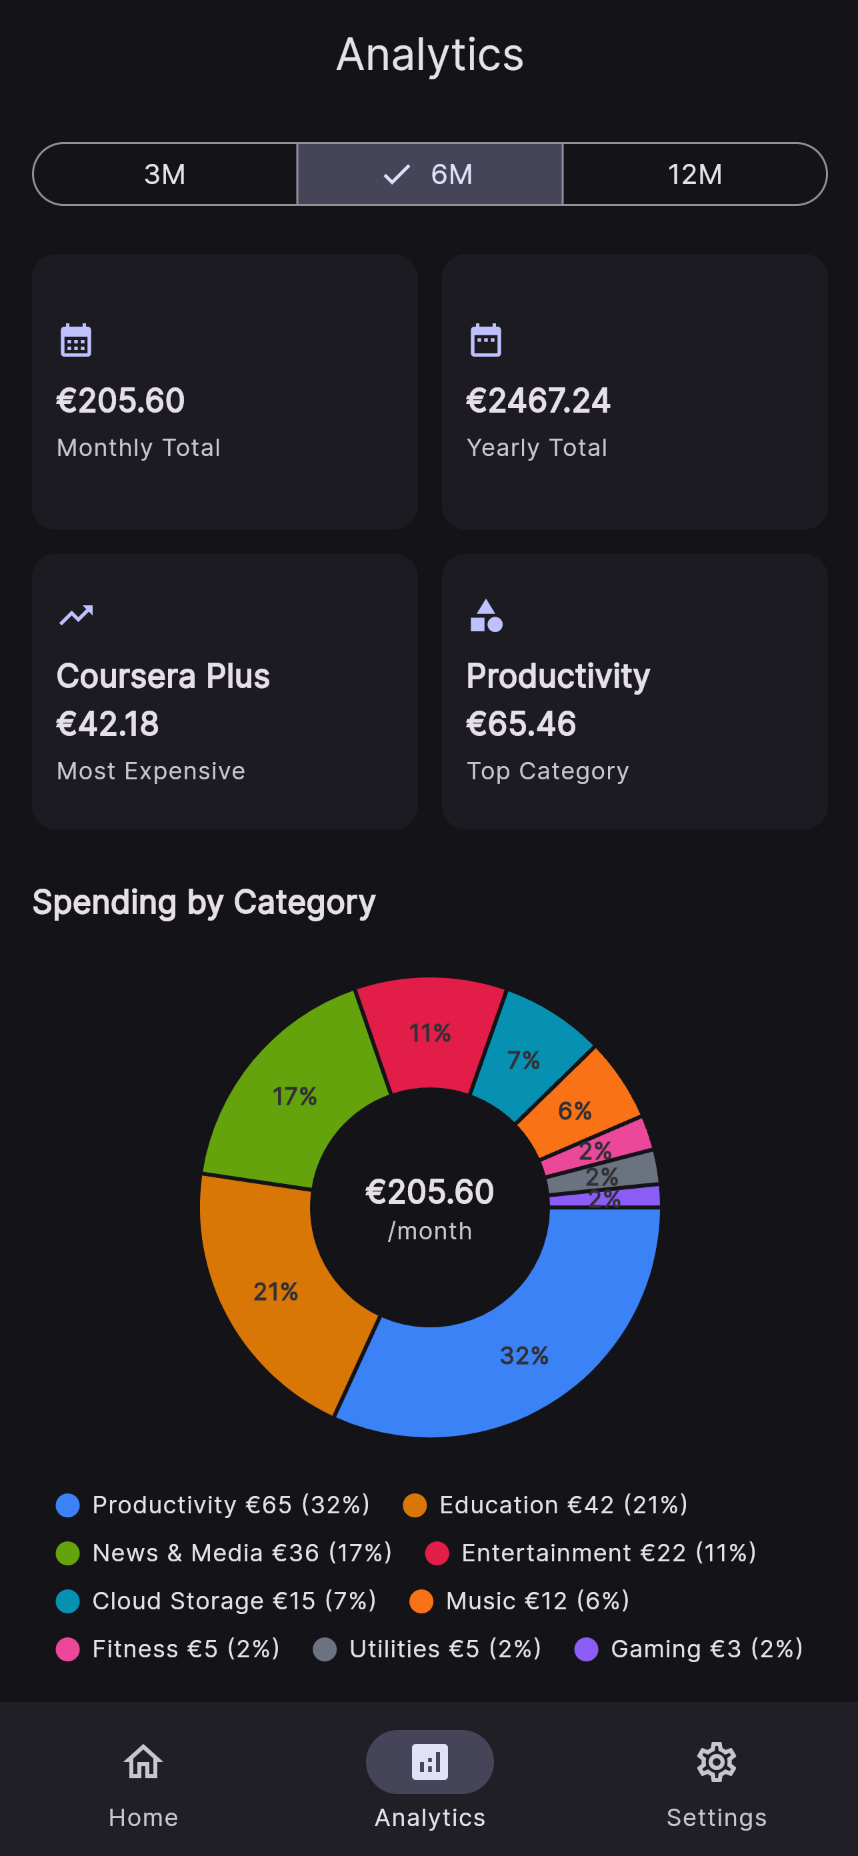
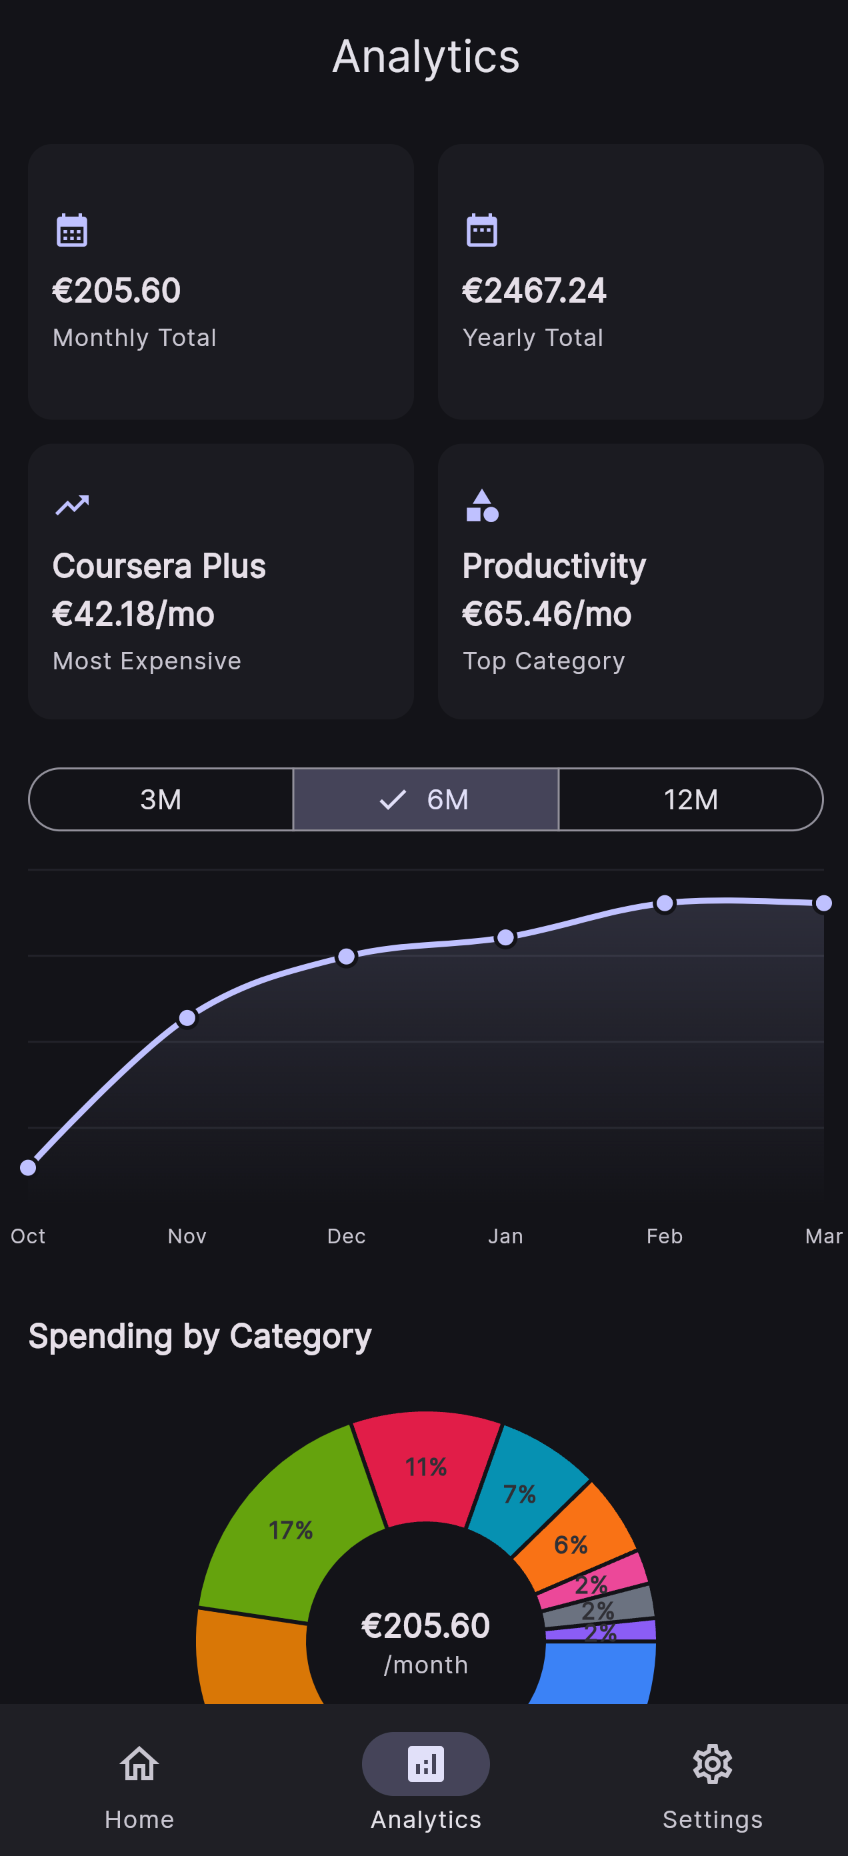
docs: add v2.5.1 Analytics Polish to roadmap
- **ROADMAP.md**: add v2.5.1 section with monthly value labels,
  reordered mobile/tablet layout, and reordered desktop layout

diff --git a/ROADMAP.md b/ROADMAP.md
@@ -36,6 +36,14 @@ Planned features and improvements for SubTracker.
 | Responsive analytics | Mobile full-width, tablet centered (700px), desktop 2-column layout     |
 | Accessibility        | Semantics on charts, tooltips on cards, accessible labels on controls   |
 
+## v2.5.1 — Analytics Polish (Done)
+
+| Feature                | Description                                                            |
+| ---------------------- | ---------------------------------------------------------------------- |
+| Monthly value labels   | Most Expensive and Top Category cards now show `/mo` suffix            |
+| Reordered mobile/tablet| Statistics cards first, then period filter + trend chart + donut chart  |
+| Reordered desktop      | Monthly trend chart placed directly below period selector              |
+
 ## v2.6.0 — Multi-user
 
 | Feature           | Description                             |
